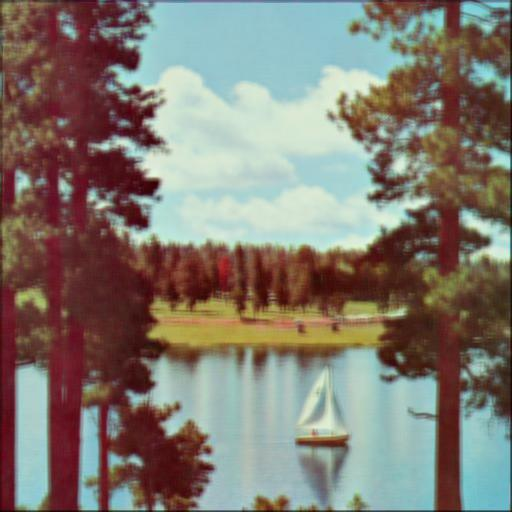
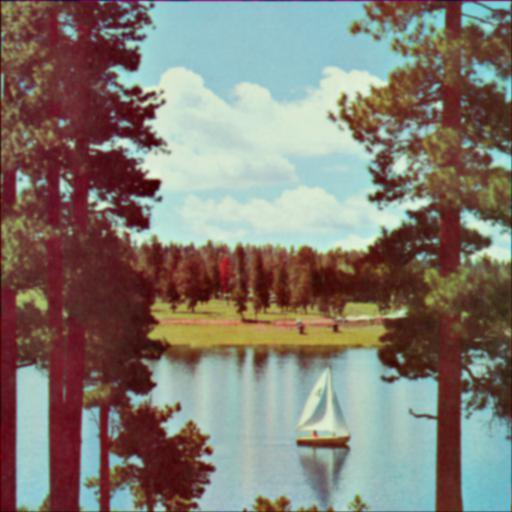
Fixed task 2c

diff --git a/processing_ass1/assignment1/task2c.py b/processing_ass1/assignment1/task2c.py
@@ -24,8 +24,7 @@ def convolve_im(im, kernel,
     assert len(im.shape) == 3
 
     # Flip kernel, so that we do correlation instead of convolution
-    corr_kernel = np.fliplr(kernel.copy())
-    corr_kernel = np.flipud(corr_kernel)
+    corr_kernel = np.fliplr(np.flipud(kernel.copy()))
 
     # Layers of zero padding as a function of K.
     # Assuming K is odd, (K-1)/2 layers of zeros is needed
@@ -37,14 +36,16 @@ def convolve_im(im, kernel,
     padded = np.zeros((im.shape[0] + 2*padding, im.shape[1] + 2*padding, 3))
     padded[padding:im.shape[0]+padding, padding:im.shape[1]+padding, :] = im
 
+    # Zero out whole image
+    im = np.zeros((im.shape[0], im.shape[1], im.shape[2]))
+
     # Do convolution on each colour channel
     for channel in range(3):
         for x in range(im.shape[0]):
             for y in range(im.shape[1]):
-                im[x, y, channel] =  0
                 for u in range(-padding, padding + 1):
                     for v in range(-padding, padding + 1):
-                        im[x, y, channel] += padded[x + padding + u, y + padding + v, channel]*corr_kernel[u, v]
+                        im[x, y, channel] += padded[x + padding + u, y + padding + v, channel]*corr_kernel[u + padding, v + padding]
 
     return im
 
